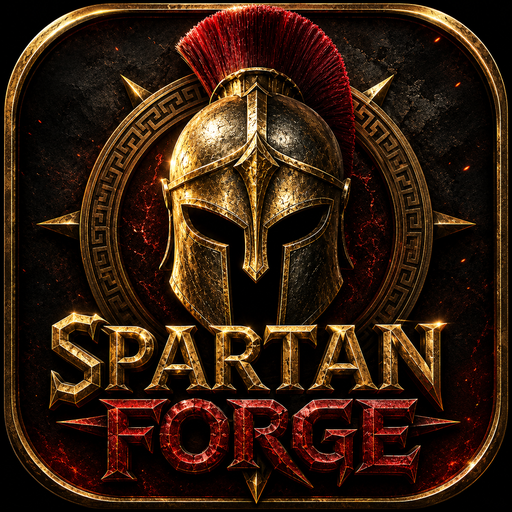
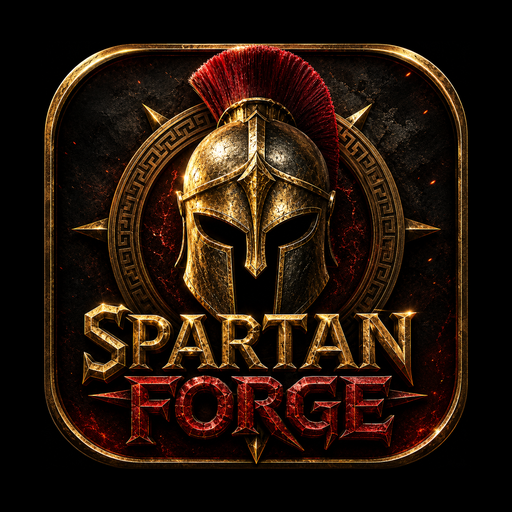
Add files via upload

diff --git a/service-worker.js b/service-worker.js
@@ -1,4 +1,4 @@
-const CACHE='spartan-forge-v10.13';
+const CACHE='spartan-forge-v10.17';
 const APP_SHELL=['./','./index.html','./manifest.webmanifest','./icon-192.png','./icon-512.png','./icon-maskable-512.png','./hero-top-v8.jpg','./splash-helmet-v108.png','./strava-config.js'];
 self.addEventListener('install',e=>{e.waitUntil(caches.open(CACHE).then(c=>c.addAll(APP_SHELL)));self.skipWaiting();});
 self.addEventListener('activate',e=>{e.waitUntil(caches.keys().then(keys=>Promise.all(keys.filter(k=>k!==CACHE).map(k=>caches.delete(k)))));self.clients.claim();});